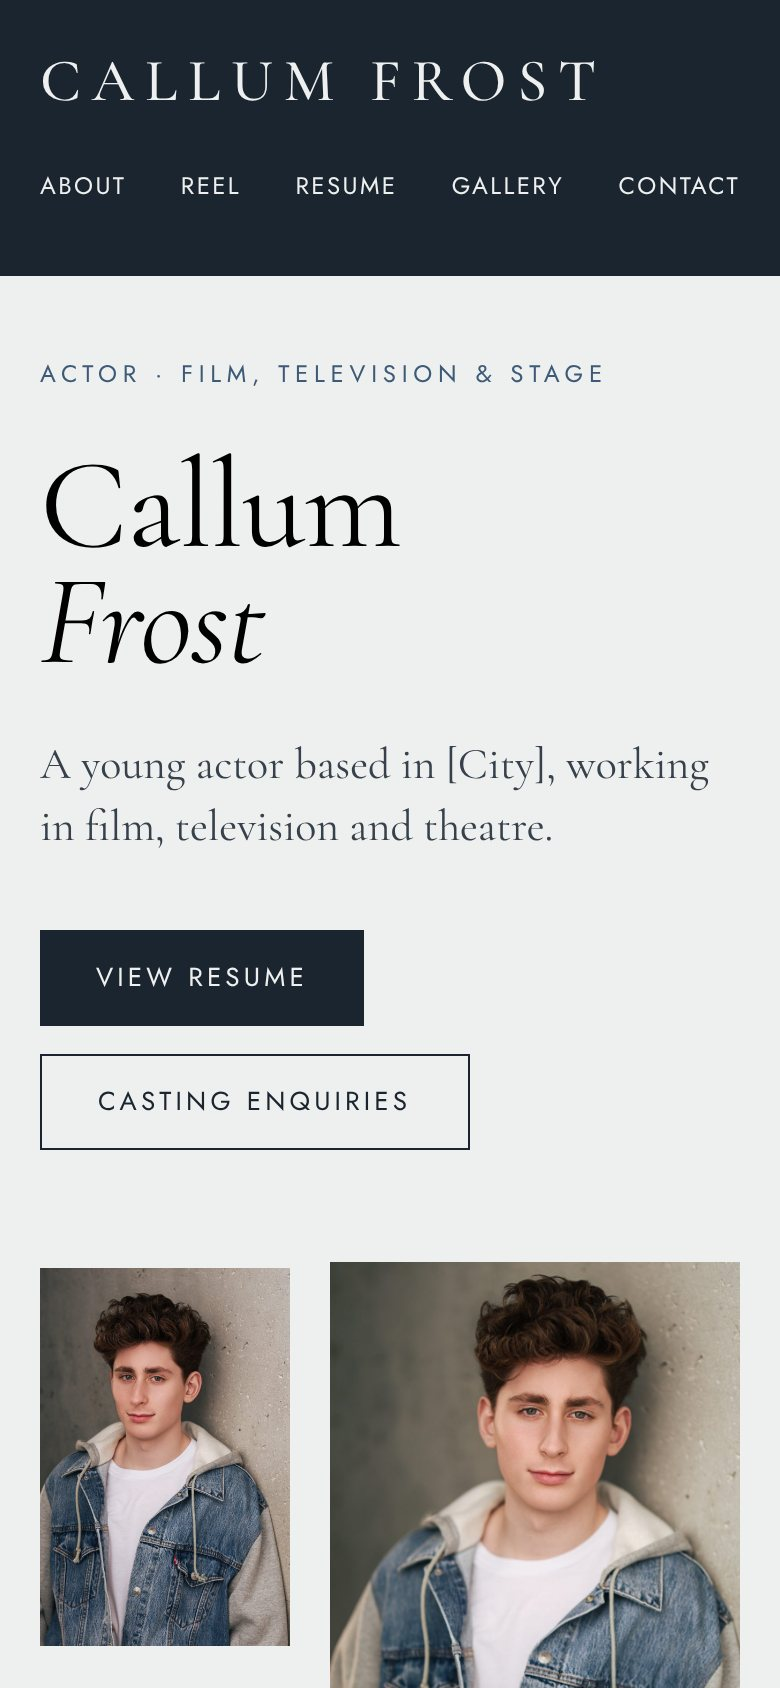
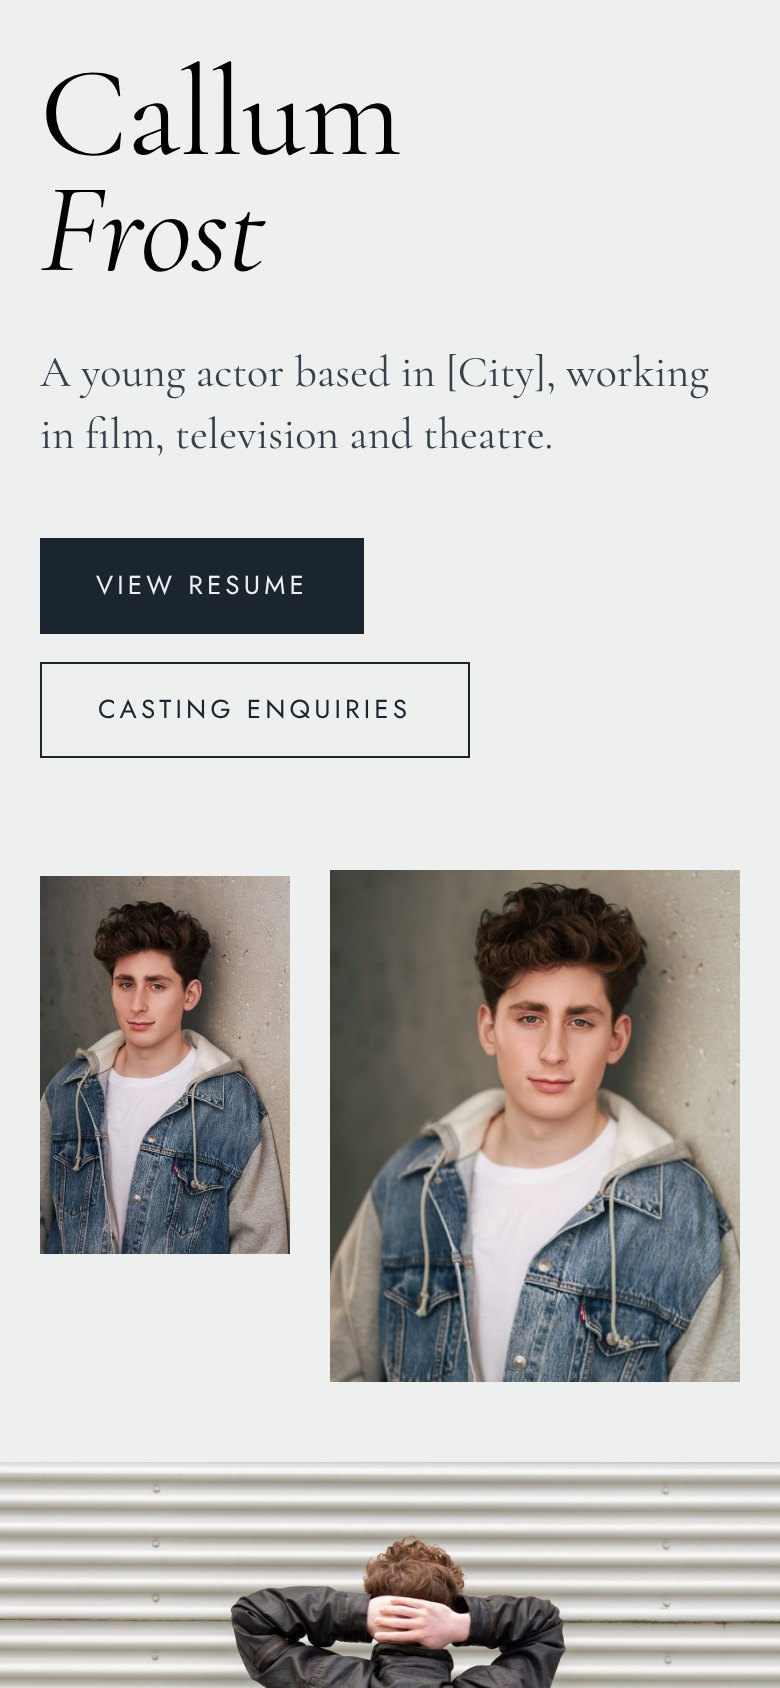
Actor Websites: $75 add-on wording, Callum's phone view, line above closing
Claude-Session: https://claude.ai/code/session_01Hm6V74ngT5ueUNYfNH5efp

diff --git a/design-source/Actor-Websites.dc.html b/design-source/Actor-Websites.dc.html
@@ -215,6 +215,7 @@ img{display:block;max-width:100%;height:auto}
 .aw-addon-text{flex:1 1 460px;min-width:0;display:flex;flex-direction:column;gap:6px}
 .aw-addon-h{margin:0;font-family:'Cormorant Infant',Garamond,serif;font-size:clamp(28px,2.4vw,34px);line-height:1.15;color:#FFFFFF}
 .aw-addon-t{margin:0;font-size:17px;line-height:1.6;color:#E8EEEF}
+.aw-addon-price span{display:block;margin-top:8px;font-family:Abel,sans-serif;font-size:13px;letter-spacing:.2em;text-transform:uppercase;color:#DCE4E5}
 .aw-addon-price{margin:0;flex:none;font-family:'Cormorant Infant',Garamond,serif;font-weight:300;font-size:clamp(48px,4vw,60px);line-height:1;color:#FFFFFF}
 @media (min-width:1000px){.aw-addon{grid-column:2}}
 .aw-request{margin:clamp(32px,4vw,48px) 0 0;font-size:16px;line-height:1.7;letter-spacing:.02em;color:#E8EEEF}
@@ -380,7 +381,7 @@ html{scroll-padding-top:104px}
 <div class="aw-price-row"><span class="aw-price">$650</span><span class="aw-price-note">One-time, with your first year of care included</span></div>
 <div style="display: flex; flex-wrap: wrap; gap: 14px"><a class="sp-btn sp-btn-blue" href="#looks" style="display: inline-flex; align-items: center; justify-content: center; gap: 14px; min-height: 56px; padding: 0 30px; background: #4E6368; border: 1px solid #4E6368; color: #FFFFFF; text-decoration: none; font-size: 18px; letter-spacing: 0.03em">See the Looks<svg width="22" height="10" viewBox="0 0 26 10" fill="none" aria-hidden="true"><path d="M0 5h24M20 1l4 4-4 4" stroke="currentColor" stroke-width="1.1"></path></svg></a><a class="sp-btn sp-btn-ghost" href="Contact.dc.html" style="display: inline-flex; align-items: center; justify-content: center; gap: 14px; min-height: 56px; padding: 0 30px; background: transparent; border: 1px solid #4E6368; color: #121414; text-decoration: none; font-size: 18px; letter-spacing: 0.03em">Enquire About Your Project<svg width="22" height="10" viewBox="0 0 26 10" fill="none" aria-hidden="true"><path d="M0 5h24M20 1l4 4-4 4" stroke="currentColor" stroke-width="1.1"></path></svg></a></div>
 </div>
-<div class="aw-phones" aria-hidden="false"><div class="aw-phone aw-phone-0"><img src="/_blob/486a8a3d6be578c3ac350cb6a2ff6501" alt="The Luminous look on a phone" width="780" height="1688" loading="lazy"></div><div class="aw-phone aw-phone-1"><img src="/_blob/d9d75f148e98a5a3548f9e491c5bbd5c" alt="The Editorial look on a phone" width="780" height="1688" fetchpriority="high"></div><div class="aw-phone aw-phone-2"><img src="/_blob/7631c869597229b71a306cd2c4d838cc" alt="The Headliner look on a phone" width="780" height="1688" loading="lazy"></div></div>
+<div class="aw-phones" aria-hidden="false"><div class="aw-phone aw-phone-0"><img src="/_blob/486a8a3d6be578c3ac350cb6a2ff6501" alt="The Luminous look on a phone" width="780" height="1688" loading="lazy"></div><div class="aw-phone aw-phone-1"><img src="/_blob/b95e5af154fbc22ab85573cbcf79d9a9" alt="The Editorial look on a phone" width="780" height="1688" fetchpriority="high"></div><div class="aw-phone aw-phone-2"><img src="/_blob/7631c869597229b71a306cd2c4d838cc" alt="The Headliner look on a phone" width="780" height="1688" loading="lazy"></div></div>
 </div>
 </section>
 <!-- THE LOOKS -->
@@ -388,7 +389,7 @@ html{scroll-padding-top:104px}
 <div style="width: 100%; max-width: 1680px; margin: 0 auto; padding-left: clamp(20px, 5vw, 72px); padding-right: clamp(20px, 5vw, 72px); padding-top: clamp(88px, 10vw, 136px); padding-bottom: clamp(88px, 10vw, 136px); display: flex; flex-direction: column; gap: clamp(64px, 7vw, 112px)">
 <div class="sp-reveal" style="display: flex; flex-wrap: wrap; align-items: flex-end; justify-content: space-between; gap: 24px clamp(48px, 7vw, 120px)">
 <div style="flex: 1 1 520px; min-width: 0; display: flex; flex-direction: column; gap: 26px"><p style="margin: 0; display: flex; align-items: center; gap: 16px; font-size: 15px; letter-spacing: 0.2em; text-transform: uppercase; color: #4E6368"><span aria-hidden="true" style="display: block; width: 40px; height: 1px; background: #4E6368"></span>Three Looks</p><h2 id="looks-title" style="margin: 0; font-family: 'Cormorant Infant', Garamond, serif; font-weight: 300; font-size: clamp(42px, 4.8vw, 76px); line-height: 1.04; letter-spacing: -0.01em; color: #121414; text-wrap: balance">Choose a look, then make it <em style="font-style: italic; color: #4E6368">yours</em></h2></div>
-<div style="flex: 1 1 420px; min-width: 0"><p style="margin: 0; font-size: 19px; line-height: 1.7; color: #1F2426">Each look comes in three colourways, or I can set it up in your own colours and fonts. Try them here, or open a live demo and click through every page. The demos use placeholder text, so you can picture your own.</p></div>
+<div style="flex: 1 1 420px; min-width: 0"><p style="margin: 0; font-size: 19px; line-height: 1.7; color: #1F2426">Each look comes in three colourways, or for an additional $75 I can set it up in your own colours and fonts. Try them here, or open a live demo and click through every page. The demos use placeholder text, so you can picture your own.</p></div>
 </div>
 <article class="aw-look aw-look-luminous sp-reveal" aria-labelledby="aw-luminous-h">
 <div class="aw-look-media">
@@ -435,7 +436,7 @@ html{scroll-padding-top:104px}
 <section aria-labelledby="inc-title" style="background: #FAFAF8">
 <div style="width: 100%; max-width: 1680px; margin: 0 auto; padding-left: clamp(20px, 5vw, 72px); padding-right: clamp(20px, 5vw, 72px); padding-top: clamp(88px, 10vw, 136px); padding-bottom: clamp(88px, 10vw, 136px); display: flex; flex-direction: column; gap: clamp(48px, 5vw, 72px)">
 <div class="sp-reveal" style="display: flex; flex-direction: column; gap: 26px"><p style="margin: 0; display: flex; align-items: center; gap: 16px; font-size: 15px; letter-spacing: 0.2em; text-transform: uppercase; color: #4E6368"><span aria-hidden="true" style="display: block; width: 40px; height: 1px; background: #4E6368"></span>What’s Included</p><h2 id="inc-title" style="margin: 0; font-family: 'Cormorant Infant', Garamond, serif; font-weight: 300; font-size: clamp(42px, 4.8vw, 76px); line-height: 1.04; letter-spacing: -0.01em; color: #121414; text-wrap: balance">Everything an actor’s site <em style="font-style: italic; color: #4E6368">needs</em></h2></div>
-<ul class="aw-inc sp-reveal"><li><span class="aw-inc-n" aria-hidden="true">01</span><span class="aw-inc-h">Six pages</span><span class="aw-inc-t">Home, about, gallery, reel, resume and contact.</span></li><li><span class="aw-inc-n" aria-hidden="true">02</span><span class="aw-inc-h">Your look and colours</span><span class="aw-inc-t">Any of the three looks, in the colourway that suits you, or your own colours and fonts for $50.</span></li><li><span class="aw-inc-n" aria-hidden="true">03</span><span class="aw-inc-h">Your own edit screen</span><span class="aw-inc-t">Update headshots, credits, training, skills and your bio, then publish. Your site updates about a minute later.</span></li><li><span class="aw-inc-n" aria-hidden="true">04</span><span class="aw-inc-h">A resume that prints</span><span class="aw-inc-t">Your resume page prints as a clean, one-page resume.</span></li><li><span class="aw-inc-n" aria-hidden="true">05</span><span class="aw-inc-h">Your reel on the page</span><span class="aw-inc-t">YouTube and Vimeo reels play right on your site.</span></li><li><span class="aw-inc-n" aria-hidden="true">06</span><span class="aw-inc-h">Ready for search</span><span class="aw-inc-t">Page titles, descriptions, structured data, a sitemap and a summary for AI search tools.</span></li><li><span class="aw-inc-n" aria-hidden="true">07</span><span class="aw-inc-h">No monthly hosting fee</span><span class="aw-inc-t">Fast, secure hosting is included.</span></li><li><span class="aw-inc-n" aria-hidden="true">08</span><span class="aw-inc-h">Your name, your domain</span><span class="aw-inc-t">You own your web address, and I connect it for you.</span></li></ul>
+<ul class="aw-inc sp-reveal"><li><span class="aw-inc-n" aria-hidden="true">01</span><span class="aw-inc-h">Six pages</span><span class="aw-inc-t">Home, about, gallery, reel, resume and contact.</span></li><li><span class="aw-inc-n" aria-hidden="true">02</span><span class="aw-inc-h">Your look and colours</span><span class="aw-inc-t">Any of the three looks, in the colourway that suits you, or your own colours and fonts for an additional $75.</span></li><li><span class="aw-inc-n" aria-hidden="true">03</span><span class="aw-inc-h">Your own edit screen</span><span class="aw-inc-t">Update headshots, credits, training, skills and your bio, then publish. Your site updates about a minute later.</span></li><li><span class="aw-inc-n" aria-hidden="true">04</span><span class="aw-inc-h">A resume that prints</span><span class="aw-inc-t">Your resume page prints as a clean, one-page resume.</span></li><li><span class="aw-inc-n" aria-hidden="true">05</span><span class="aw-inc-h">Your reel on the page</span><span class="aw-inc-t">YouTube and Vimeo reels play right on your site.</span></li><li><span class="aw-inc-n" aria-hidden="true">06</span><span class="aw-inc-h">Ready for search</span><span class="aw-inc-t">Page titles, descriptions, structured data, a sitemap and a summary for AI search tools.</span></li><li><span class="aw-inc-n" aria-hidden="true">07</span><span class="aw-inc-h">No monthly hosting fee</span><span class="aw-inc-t">Fast, secure hosting is included.</span></li><li><span class="aw-inc-n" aria-hidden="true">08</span><span class="aw-inc-h">Your name, your domain</span><span class="aw-inc-t">You own your web address, and I connect it for you.</span></li></ul>
 </div>
 </section>
 <!-- PRICING -->
@@ -454,7 +455,7 @@ html{scroll-padding-top:104px}
 <div class="aw-card"><p class="aw-card-l">Care, after year one</p><p class="aw-card-price">$100</p><p class="aw-card-sub">A year, optional</p>
 <ul><li>Up to 3 change requests a year, for new wording or small design tweaks</li><li>Help if you get stuck with your edit screen</li><li>Headshots, credits and your bio are always yours to update</li></ul></div>
 </div>
-<div class="aw-addon sp-reveal"><div class="aw-addon-text"><p class="aw-card-l">Optional add-on</p><p class="aw-addon-h">Your own colours and fonts</p><p class="aw-addon-t">Want something other than the three colourways? I’ll set up any look in colours and a font pairing chosen just for you, checked so every page stays easy to read.</p></div><p class="aw-addon-price">$50</p></div>
+<div class="aw-addon sp-reveal"><div class="aw-addon-text"><p class="aw-card-l">Optional add-on</p><p class="aw-addon-h">Your own colours and fonts</p><p class="aw-addon-t">Want something other than the three colourways? I’ll set up any look in colours and a font pairing chosen just for you, checked so every page stays easy to read.</p></div><p class="aw-addon-price">+$75<span>Additional</span></p></div>
 </div>
 <p class="aw-request sp-reveal">A change request is one email with a batch of changes. Five small tweaks sent together count as one request.</p>
 </div>
@@ -503,6 +504,7 @@ html{scroll-padding-top:104px}
 </section>
 <!-- CLOSING -->
 <section aria-labelledby="cta-title" style="position: relative; overflow: hidden; background: #FAFAF8">
+<div aria-hidden="true" style="position: relative; z-index: 1; max-width: 1680px; margin: 0 auto; padding: 0 clamp(20px, 5vw, 72px)"><div style="border-top: 1px solid rgba(78, 99, 104, 0.35)"></div></div>
 <div aria-hidden="true" style="position: absolute; left: -40px; bottom: -40px; width: min(1000px, 100vw); transform: rotate(180deg); pointer-events: none; z-index: 0">
 <img src="/_blob/fddc24a18e2595d21f63da9f1d7bf0d5" alt="" width="1800" height="1200" loading="lazy" style="width: 100%; height: auto; opacity: 0.12; mix-blend-mode: multiply">
 </div>

diff --git a/site/services/actor-websites.html b/site/services/actor-websites.html
@@ -218,6 +218,7 @@ img{display:block;max-width:100%;height:auto}
 .aw-addon-text{flex:1 1 460px;min-width:0;display:flex;flex-direction:column;gap:6px}
 .aw-addon-h{margin:0;font-family:'Cormorant Infant',Garamond,serif;font-size:clamp(28px,2.4vw,34px);line-height:1.15;color:#FFFFFF}
 .aw-addon-t{margin:0;font-size:17px;line-height:1.6;color:#E8EEEF}
+.aw-addon-price span{display:block;margin-top:8px;font-family:Abel,sans-serif;font-size:13px;letter-spacing:.2em;text-transform:uppercase;color:#DCE4E5}
 .aw-addon-price{margin:0;flex:none;font-family:'Cormorant Infant',Garamond,serif;font-weight:300;font-size:clamp(48px,4vw,60px);line-height:1;color:#FFFFFF}
 @media (min-width:1000px){.aw-addon{grid-column:2}}
 .aw-request{margin:clamp(32px,4vw,48px) 0 0;font-size:16px;line-height:1.7;letter-spacing:.02em;color:#E8EEEF}
@@ -396,7 +397,7 @@ html{scroll-padding-top:104px}
 <div style="width: 100%; max-width: 1680px; margin: 0 auto; padding-left: clamp(20px, 5vw, 72px); padding-right: clamp(20px, 5vw, 72px); padding-top: clamp(88px, 10vw, 136px); padding-bottom: clamp(88px, 10vw, 136px); display: flex; flex-direction: column; gap: clamp(64px, 7vw, 112px)">
 <div class="sp-reveal" style="display: flex; flex-wrap: wrap; align-items: flex-end; justify-content: space-between; gap: 24px clamp(48px, 7vw, 120px)">
 <div style="flex: 1 1 520px; min-width: 0; display: flex; flex-direction: column; gap: 26px"><p style="margin: 0; display: flex; align-items: center; gap: 16px; font-size: 15px; letter-spacing: 0.2em; text-transform: uppercase; color: #4E6368"><span aria-hidden="true" style="display: block; width: 40px; height: 1px; background: #4E6368"></span>Three Looks</p><h2 id="looks-title" style="margin: 0; font-family: 'Cormorant Infant', Garamond, serif; font-weight: 300; font-size: clamp(42px, 4.8vw, 76px); line-height: 1.04; letter-spacing: -0.01em; color: #121414; text-wrap: balance">Choose a look, then make it <em style="font-style: italic; color: #4E6368">yours</em></h2></div>
-<div style="flex: 1 1 420px; min-width: 0"><p style="margin: 0; font-size: 19px; line-height: 1.7; color: #1F2426">Each look comes in three colourways, or I can set it up in your own colours and fonts. Try them here, or open a live demo and click through every page. The demos use placeholder text, so you can picture your own.</p></div>
+<div style="flex: 1 1 420px; min-width: 0"><p style="margin: 0; font-size: 19px; line-height: 1.7; color: #1F2426">Each look comes in three colourways, or for an additional $75 I can set it up in your own colours and fonts. Try them here, or open a live demo and click through every page. The demos use placeholder text, so you can picture your own.</p></div>
 </div>
 <article class="aw-look aw-look-luminous sp-reveal" aria-labelledby="aw-luminous-h">
 <div class="aw-look-media">
@@ -443,7 +444,7 @@ html{scroll-padding-top:104px}
 <section aria-labelledby="inc-title" style="background: #FAFAF8">
 <div style="width: 100%; max-width: 1680px; margin: 0 auto; padding-left: clamp(20px, 5vw, 72px); padding-right: clamp(20px, 5vw, 72px); padding-top: clamp(88px, 10vw, 136px); padding-bottom: clamp(88px, 10vw, 136px); display: flex; flex-direction: column; gap: clamp(48px, 5vw, 72px)">
 <div class="sp-reveal" style="display: flex; flex-direction: column; gap: 26px"><p style="margin: 0; display: flex; align-items: center; gap: 16px; font-size: 15px; letter-spacing: 0.2em; text-transform: uppercase; color: #4E6368"><span aria-hidden="true" style="display: block; width: 40px; height: 1px; background: #4E6368"></span>What’s Included</p><h2 id="inc-title" style="margin: 0; font-family: 'Cormorant Infant', Garamond, serif; font-weight: 300; font-size: clamp(42px, 4.8vw, 76px); line-height: 1.04; letter-spacing: -0.01em; color: #121414; text-wrap: balance">Everything an actor’s site <em style="font-style: italic; color: #4E6368">needs</em></h2></div>
-<ul class="aw-inc sp-reveal"><li><span class="aw-inc-n" aria-hidden="true">01</span><span class="aw-inc-h">Six pages</span><span class="aw-inc-t">Home, about, gallery, reel, resume and contact.</span></li><li><span class="aw-inc-n" aria-hidden="true">02</span><span class="aw-inc-h">Your look and colours</span><span class="aw-inc-t">Any of the three looks, in the colourway that suits you, or your own colours and fonts for $50.</span></li><li><span class="aw-inc-n" aria-hidden="true">03</span><span class="aw-inc-h">Your own edit screen</span><span class="aw-inc-t">Update headshots, credits, training, skills and your bio, then publish. Your site updates about a minute later.</span></li><li><span class="aw-inc-n" aria-hidden="true">04</span><span class="aw-inc-h">A resume that prints</span><span class="aw-inc-t">Your resume page prints as a clean, one-page resume.</span></li><li><span class="aw-inc-n" aria-hidden="true">05</span><span class="aw-inc-h">Your reel on the page</span><span class="aw-inc-t">YouTube and Vimeo reels play right on your site.</span></li><li><span class="aw-inc-n" aria-hidden="true">06</span><span class="aw-inc-h">Ready for search</span><span class="aw-inc-t">Page titles, descriptions, structured data, a sitemap and a summary for AI search tools.</span></li><li><span class="aw-inc-n" aria-hidden="true">07</span><span class="aw-inc-h">No monthly hosting fee</span><span class="aw-inc-t">Fast, secure hosting is included.</span></li><li><span class="aw-inc-n" aria-hidden="true">08</span><span class="aw-inc-h">Your name, your domain</span><span class="aw-inc-t">You own your web address, and I connect it for you.</span></li></ul>
+<ul class="aw-inc sp-reveal"><li><span class="aw-inc-n" aria-hidden="true">01</span><span class="aw-inc-h">Six pages</span><span class="aw-inc-t">Home, about, gallery, reel, resume and contact.</span></li><li><span class="aw-inc-n" aria-hidden="true">02</span><span class="aw-inc-h">Your look and colours</span><span class="aw-inc-t">Any of the three looks, in the colourway that suits you, or your own colours and fonts for an additional $75.</span></li><li><span class="aw-inc-n" aria-hidden="true">03</span><span class="aw-inc-h">Your own edit screen</span><span class="aw-inc-t">Update headshots, credits, training, skills and your bio, then publish. Your site updates about a minute later.</span></li><li><span class="aw-inc-n" aria-hidden="true">04</span><span class="aw-inc-h">A resume that prints</span><span class="aw-inc-t">Your resume page prints as a clean, one-page resume.</span></li><li><span class="aw-inc-n" aria-hidden="true">05</span><span class="aw-inc-h">Your reel on the page</span><span class="aw-inc-t">YouTube and Vimeo reels play right on your site.</span></li><li><span class="aw-inc-n" aria-hidden="true">06</span><span class="aw-inc-h">Ready for search</span><span class="aw-inc-t">Page titles, descriptions, structured data, a sitemap and a summary for AI search tools.</span></li><li><span class="aw-inc-n" aria-hidden="true">07</span><span class="aw-inc-h">No monthly hosting fee</span><span class="aw-inc-t">Fast, secure hosting is included.</span></li><li><span class="aw-inc-n" aria-hidden="true">08</span><span class="aw-inc-h">Your name, your domain</span><span class="aw-inc-t">You own your web address, and I connect it for you.</span></li></ul>
 </div>
 </section>
 
@@ -462,7 +463,7 @@ html{scroll-padding-top:104px}
 <div class="aw-card"><p class="aw-card-l">Care, after year one</p><p class="aw-card-price">$100</p><p class="aw-card-sub">A year, optional</p>
 <ul><li>Up to 3 change requests a year, for new wording or small design tweaks</li><li>Help if you get stuck with your edit screen</li><li>Headshots, credits and your bio are always yours to update</li></ul></div>
 </div>
-<div class="aw-addon sp-reveal"><div class="aw-addon-text"><p class="aw-card-l">Optional add-on</p><p class="aw-addon-h">Your own colours and fonts</p><p class="aw-addon-t">Want something other than the three colourways? I’ll set up any look in colours and a font pairing chosen just for you, checked so every page stays easy to read.</p></div><p class="aw-addon-price">$50</p></div>
+<div class="aw-addon sp-reveal"><div class="aw-addon-text"><p class="aw-card-l">Optional add-on</p><p class="aw-addon-h">Your own colours and fonts</p><p class="aw-addon-t">Want something other than the three colourways? I’ll set up any look in colours and a font pairing chosen just for you, checked so every page stays easy to read.</p></div><p class="aw-addon-price">+$75<span>Additional</span></p></div>
 </div>
 <p class="aw-request sp-reveal">A change request is one email with a batch of changes. Five small tweaks sent together count as one request.</p>
 </div>
@@ -511,6 +512,7 @@ html{scroll-padding-top:104px}
 </section>
 
 <section aria-labelledby="cta-title" style="position: relative; overflow: hidden; background: #FAFAF8">
+<div aria-hidden="true" style="position: relative; z-index: 1; max-width: 1680px; margin: 0 auto; padding: 0 clamp(20px, 5vw, 72px)"><div style="border-top: 1px solid rgba(78, 99, 104, 0.35)"></div></div>
 <div aria-hidden="true" style="position: absolute; left: -40px; bottom: -40px; width: min(1000px, 100vw); transform: rotate(180deg); pointer-events: none; z-index: 0">
 <img src="/images/palm-leaf-shadow.webp" alt="" width="1800" height="1200" loading="lazy" style="width: 100%; height: auto; opacity: 0.12; mix-blend-mode: multiply">
 </div>
